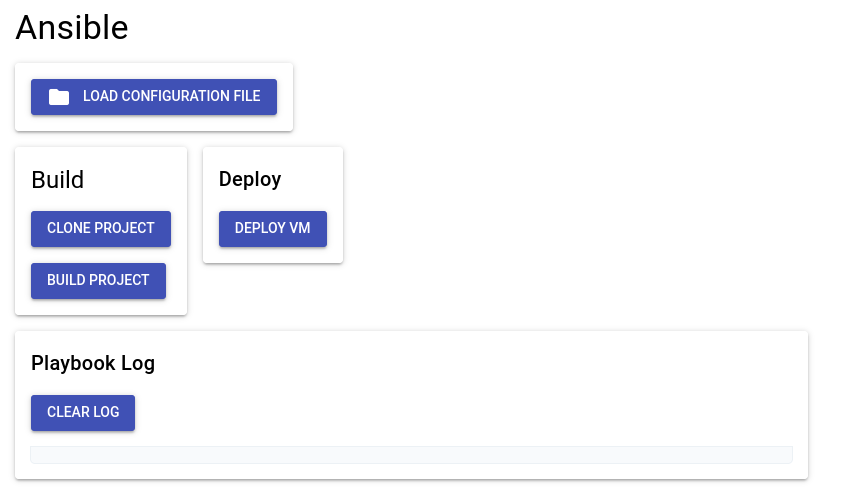
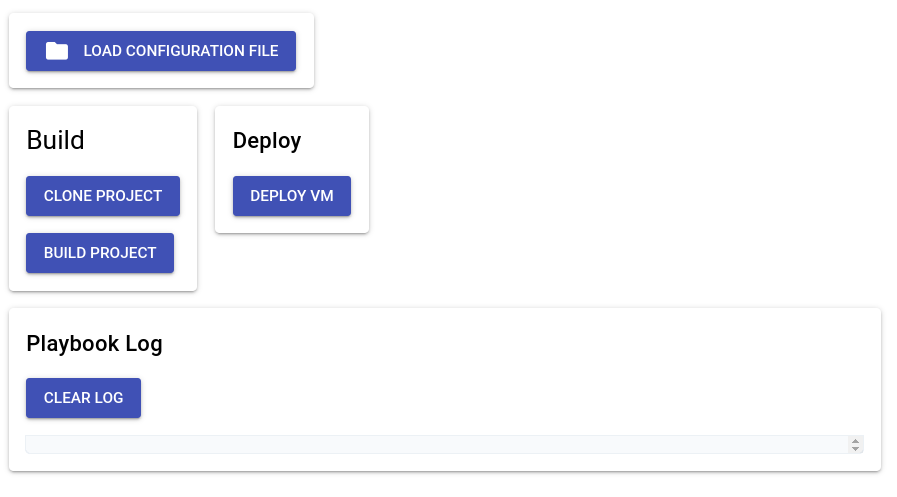
doc(nicegui): update screenshots and information

diff --git a/docs/gui.md b/docs/gui.md
@@ -1,18 +1,19 @@
 # Usage with GUI
 
-We have simple UI available at <https://forge.ublue.local>.
+We have simple UI available at <https://forge.ublue.local>. This page should give
+you a glimpse on what to expect before you try out the project.
 
 ## Navigation
 
-For navigation you can use the navigation bar on the top left.
+For navigation you can use the navigation menu on the top left.
 
 ![navigation](./assets/gui_navigation.png)
 
 ### Home
 
-Currently nothing to see here. The goal is to display some
-general information here. Links to documentation and important
-news etc.
+Start page with links and information.
+
+![home](./assets/gui_home.png)
 
 ### Ansible
 
@@ -32,6 +33,6 @@ the container registry `registry.ublue.local`.
 
 ### About
 
-Currently nothing to see here. The goal is to display some
-information here about the software and versions used in this project
-and maybe some acknowledgments etc.
+If you are interested about software versions used etc. you can go to the about page.
+
+![about](./assets/gui_about.png)
